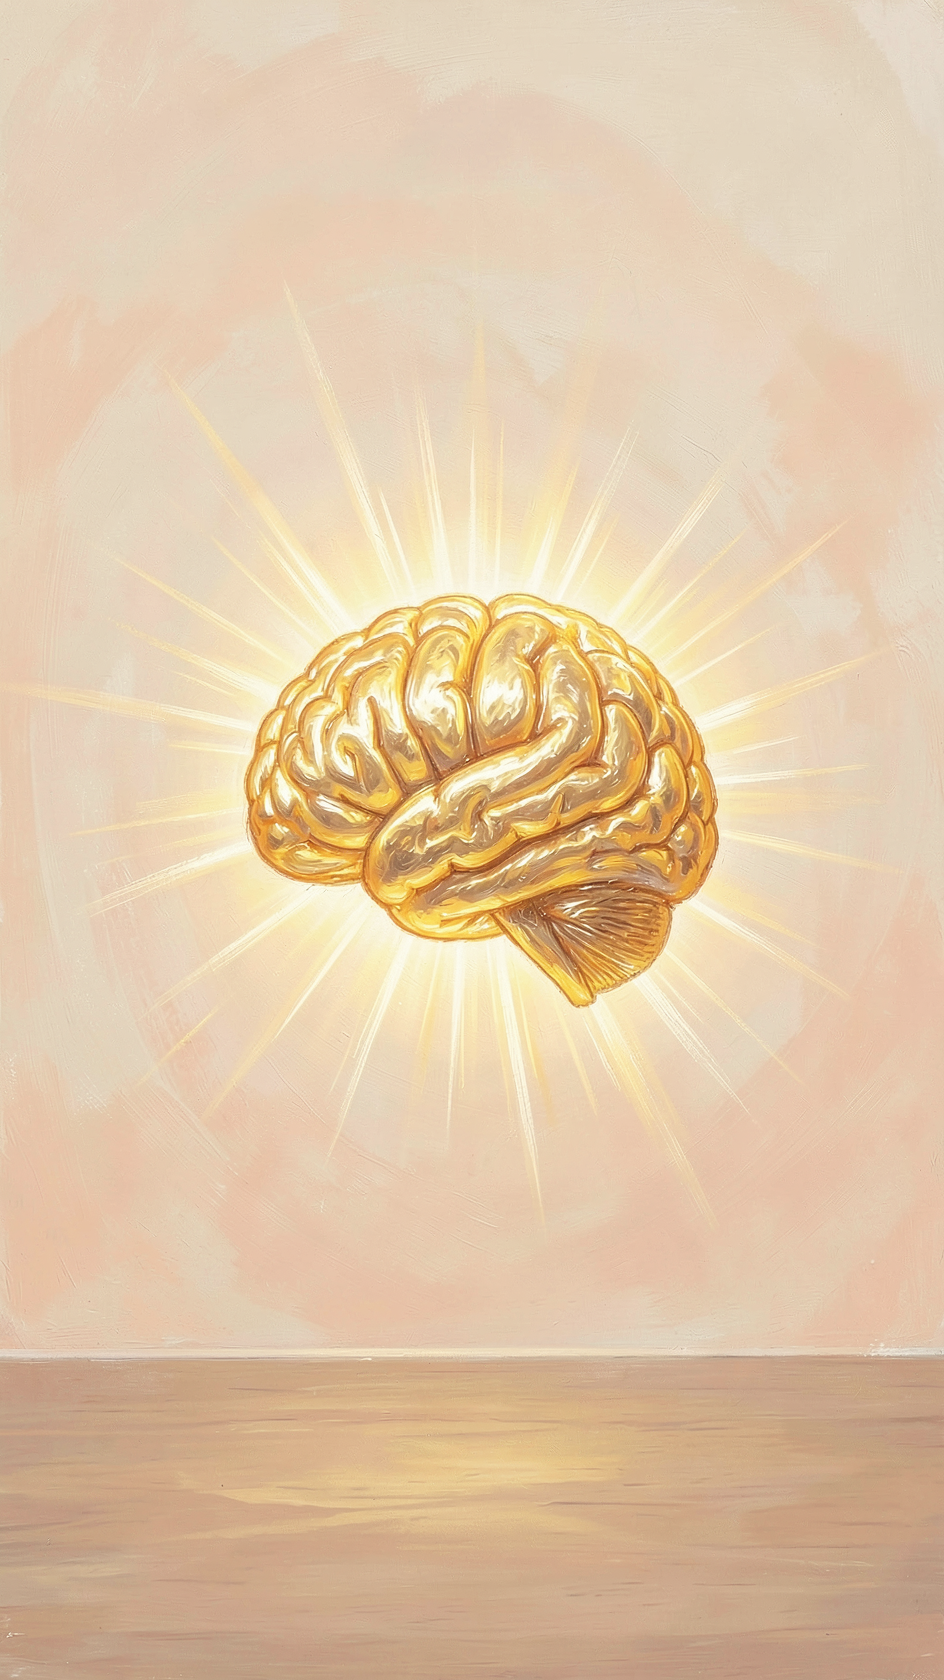
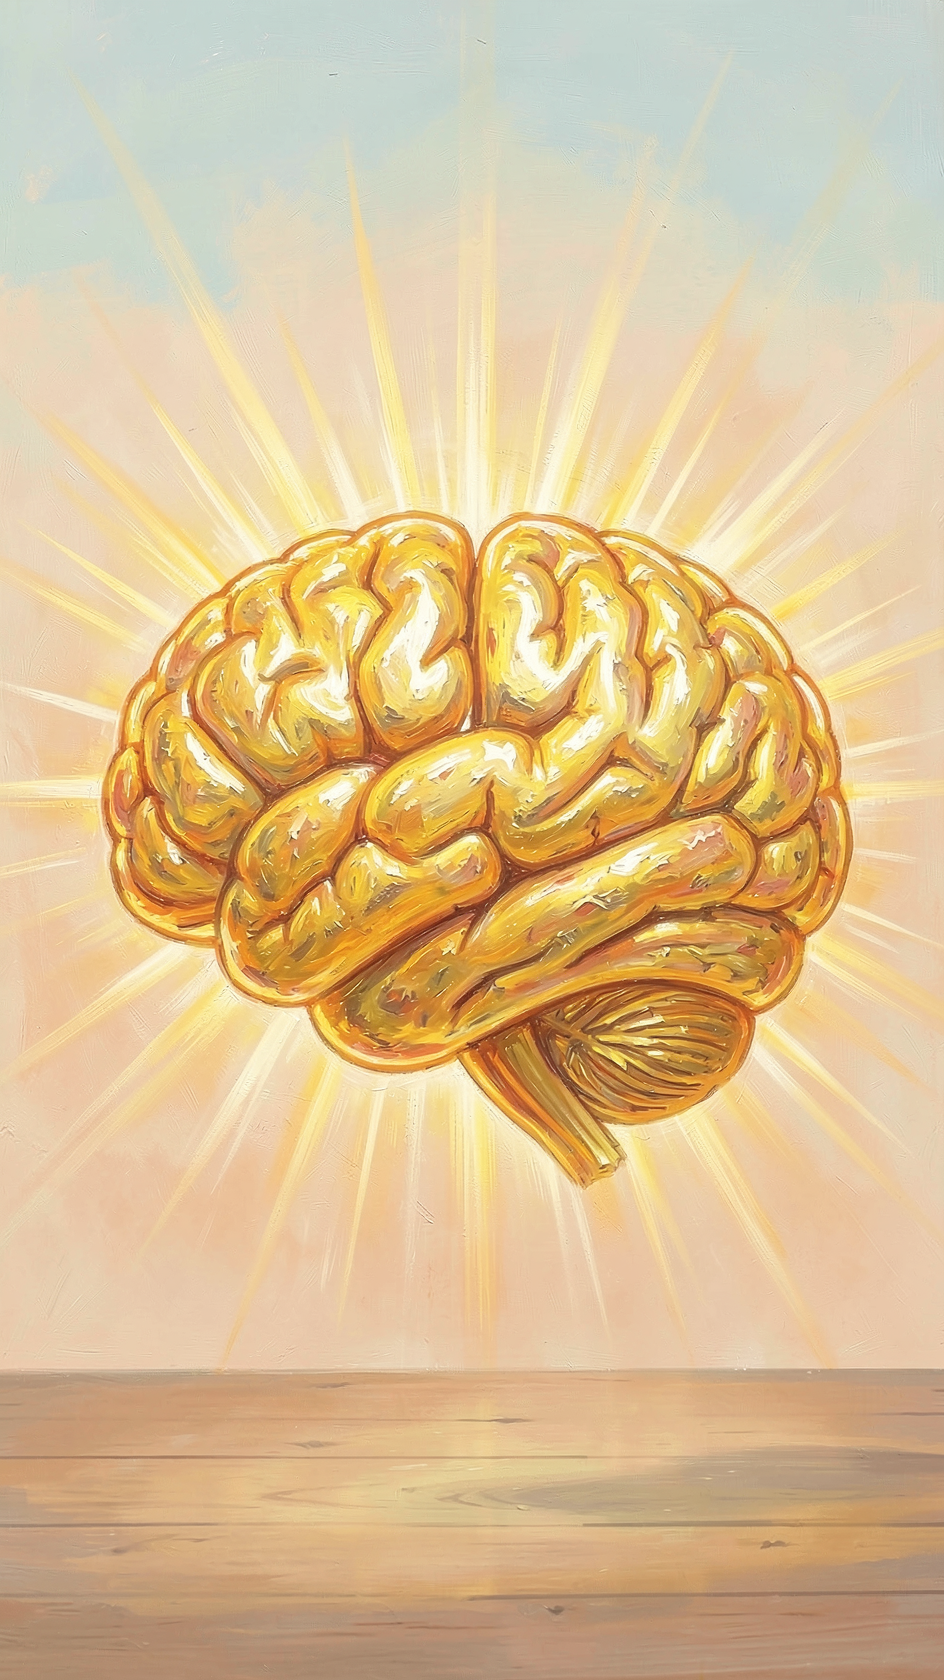
Apollo 13 and tickling rendered, all QA pass: brains count as close-ups and are painted large (round 3); a top label moves below a slam; stills place captions like the render

diff --git a/scripts/motion_test/compose_beats.py b/scripts/motion_test/compose_beats.py
@@ -122,6 +122,11 @@ def word_time(T: dict, anchor: str, default: float) -> float:
     return T.get(first, default)
 
 
+def slams(spec: dict) -> bool:
+    """The beat slams its on-screen text at the top of the frame."""
+    return any(m['recipe'] == 'text_slam' for m in spec['shot'].get('motion', [])) and bool(spec.get('on_screen_text'))
+
+
 def same_text(text: str) -> str:
     return ' '.join(re.findall(r'[a-z0-9.]+', (text or '').lower()))
 
@@ -1385,7 +1390,10 @@ class InsertShot(VisualShot):
             if e['kind'] == 'label' and said and same_text(e.get('detail', '')) == said:
                 continue                                # the on-screen text already says it: never the same words twice
             at = self.tw(e['anchor']) if e.get('anchor') else None
-            effects.append(Effect(e['kind'], at, e.get('at', ''), e.get('detail', ''), seed=11 + k))
+            where = e.get('at', '')
+            if e['kind'] == 'label' and said and where in ('top', 'sky') and slams(self.spec):
+                where = 'peak'                          # the slam holds the top: the label sits below it (tickling b07)
+            effects.append(Effect(e['kind'], at, where, e.get('detail', ''), seed=11 + k))
         settle_effects(effects, self.t0, self.t1)
         for e in effects:
             if e.at is None:

diff --git a/scripts/motion_test/episode_runner.py b/scripts/motion_test/episode_runner.py
@@ -297,13 +297,15 @@ class Runner:
             for s in args.still:
                 name, t0, t1 = next(p for p in plan if p[1] <= s < p[2])
                 scene = self.make_scene(name, tl)
+                O.take_text_log()
                 frame = scene.frame(s)
+                drawn = O.take_text_log()
                 line = C.at(lines, s)
-                if line:
-                    C.draw(frame, line, s, avoid=getattr(scene, 'host_hit', None))
+                if line:                                # placed as in the render: clear of the host and the texts
+                    C.draw(frame, line, s, avoid=getattr(scene, 'host_hit', None),
+                           keep_clear=[d['box'] for d in drawn if 'box' in d])
                 path = self.out / f'still-{s:05.2f}.jpg'
                 frame.convert('RGB').save(path, quality=90)
-                drawn = O.take_text_log()
                 small = text_summary(drawn) if drawn else None
                 print(path, name, f"smallest text: {small['em']}px ({small['label']})" if small else '',
                       f"text box right {small['box'][2]} bottom {small['box'][3]} ({small['box_label']})" if small and 'box' in small else '')

diff --git a/pipeline/inserts.py b/pipeline/inserts.py
@@ -59,7 +59,8 @@ def save_library(lib: dict):
 # whole). In an object close-up a full-body host standing beside the object looks dwarfed by a giant prop (user
 # 2026-11-10), so the composer keeps the host in the foreground there. A library entry may set "scale" itself.
 OBJECT_WORDS = re.compile(r'\b(jars?|bottles?|glass(es)?|cups?|mugs?|strips?|dippers?|spoons?|lemons?|plates?|bowls?|cells?|'
-                          r'crystals?|drops?|droplets?|coins?|books?|phones?|tabletop|surface|microscope|macro|petri)\b')
+                          r'crystals?|drops?|droplets?|coins?|books?|phones?|tabletop|surface|microscope|macro|petri|brains?|hearts?|lungs?|'
+                          r'eyes?|feathers?|germs?|bacteria|molecules?|neurons?)\b')
 FIRST_CLAUSE = re.compile(r'[,:;]| in | with | at | beside | under | on a | on the ')
 
 

diff --git a/docs/TASKS.md b/docs/TASKS.md
@@ -10,10 +10,11 @@ DONE = from the phone: type a topic, make the picks, download a QA-passed video;
 ## A. Videos
 - [x] Pisa rendered: 51.3 s, all QA pass (over the 45 s target)
 - [x] Apollo approved (with the user's edits); tickling approved (with friend + movement)
-- [ ] Apollo and tickling: painting now, then art check, then render
+- [x] Apollo rendered: 47.9 s, all QA pass (space scenes repainted without ground; Aquarius no longer shown landed)
+- [x] Tickling rendered: 43.8 s, all QA pass (friend tickles the host in b10)
 - [ ] Finance: script at the gate; render after approval
 - [ ] Report which hands-off videos are postable as-is
 
-## Build (merged into pipeline-v2, 376 tests pass)
+## Build (merged into pipeline-v2, 380 tests pass)
 - [x] B web app  - [x] C deploy + Mac worker  - [x] D e2e (fake) + smoke test  - [x] E friend in the host format
 - [ ] Deploy to the VPS after OK; smoke test; one real topic from the phone (real e2e)
